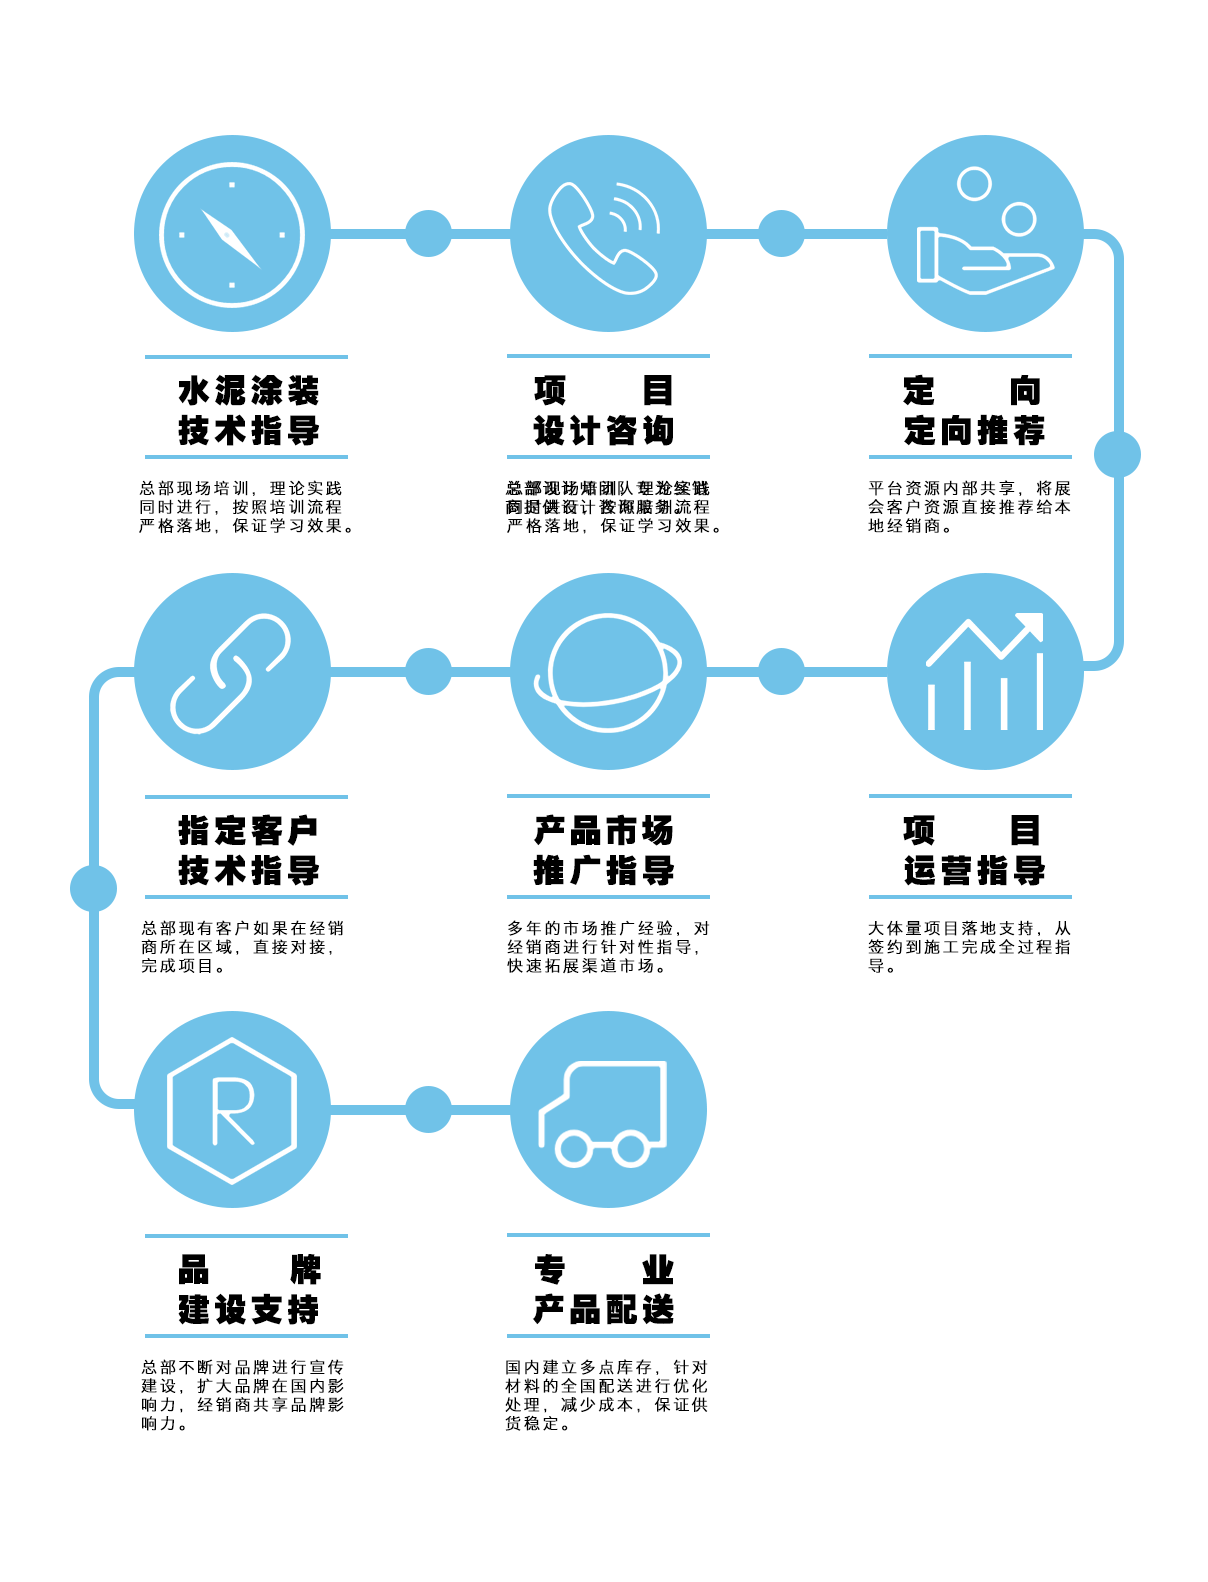
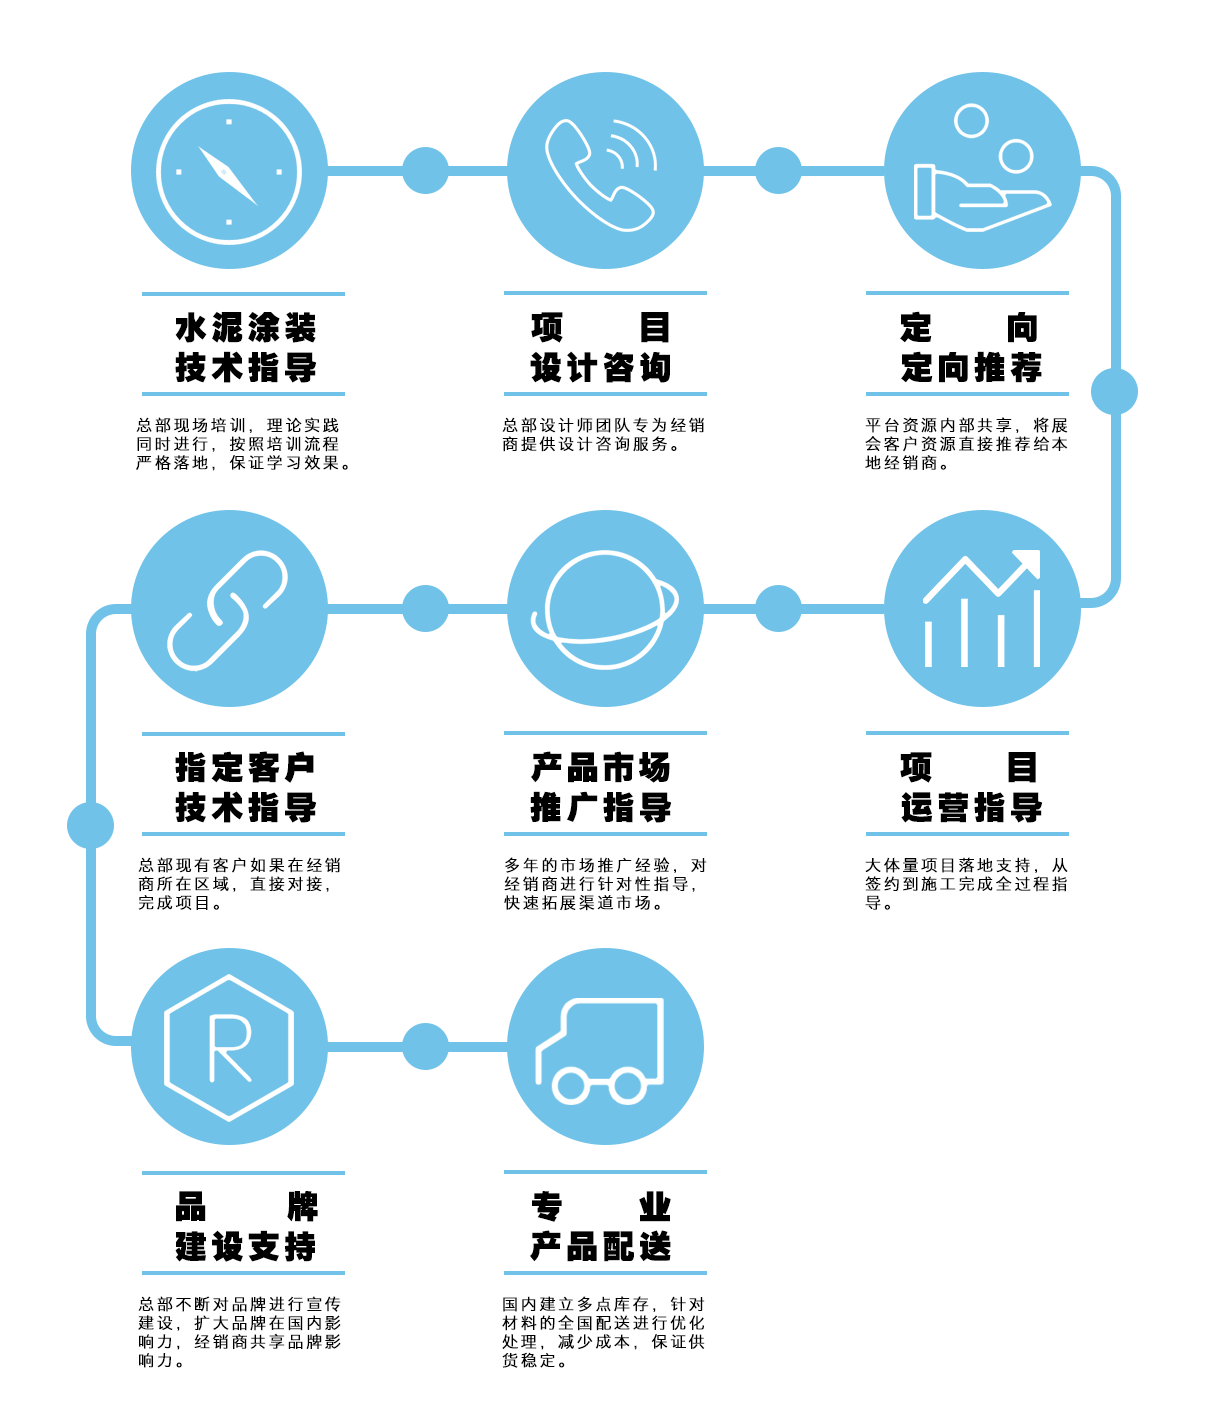
modify

diff --git a/channelService.html b/channelService.html
@@ -95,7 +95,8 @@
 									<div class="centerLine">
 										<span></span>
 									</div>
-									<p class="leftTitle">把准脉  才能开对药</p>
+									<!--把准脉  才能开对药-->
+									<p class="leftTitle"></p>
 									<div class="rightContentbox">
 										<p>
 											<span>专业：</span>
@@ -185,6 +186,7 @@
 									</el-col>
 									<el-col :span="12">
 										<div class="kuaiContent kuaiContent1">
+											<div class="blueBlock"></div>
 											<p>纳米水泥是新型设计类材料，需要特殊渠道，对接客户群体，公司有一套完整渠道业务体系，</p>
 											<p>指导加盟商速度拓展业务资源，保证销售和技术同时并行，达到快速成交。</p>
 											<p>精准客户收集，客户群体精准分类。多渠道进行市场推广</p>
@@ -194,6 +196,7 @@
 								<el-row>
 									<el-col :span="12">
 										<div class="kuaiContent kuaiContent2">
+											<div class="blueBlock"></div>
 											<p>已未每年在国内参加多场展会，进行推广，对接相应区域客户，</p>
 											<p>总部电商部设计师资源落地服务。派单对接。</p>
 											<p>对接精准客户，保证全国资源</p>

diff --git a/index.html b/index.html
@@ -23,9 +23,9 @@
 					</div>
 					
 					<div class="advan-box">
-						<div class="advan-title">
+						<!--<div class="advan-title">
 							一站式渠道招商服务
-						</div>
+						</div>-->
 						<el-row title="点击查看详情" >
 						  <el-col :span="9" >
 						  	<div @click="openChannelFn(1)">专</div>
@@ -148,7 +148,7 @@
 			},
 			methods:{
 				openMore:function(){
-					sessionStorage.setItem('navindex','3')
+					sessionStorage.setItem('navindex','4')
 					window.open('news.html','_self')
 				},
 				openChannelFn:function(a){

diff --git a/css/channelService.css b/css/channelService.css
@@ -164,8 +164,12 @@
 .kuaiContent2 p{
 	text-align: left;
 }
+.blueBlock{
+	width:100px;height: 20px;margin-bottom: 20px;
+	background: #70c2e8;
+}
 .kuaiContent{
-	padding-top: 200px;box-sizing: border-box;width: 400px;
+	padding-top: 160px; box-sizing: border-box;width: 400px;
 	margin: 0 auto;
 }
 .kuaiContent p{
